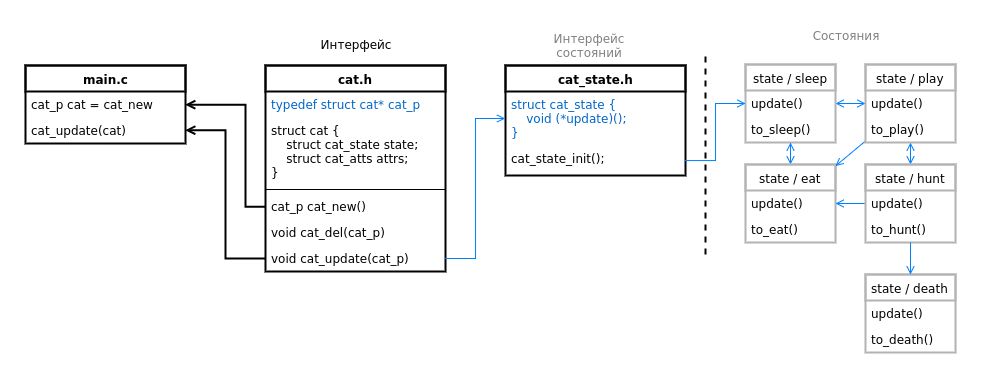
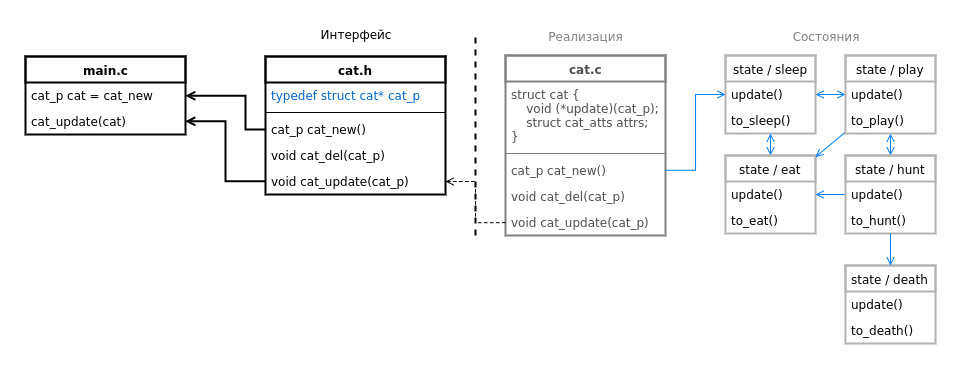
update

diff --git a/state/cat.h b/state/cat.h
@@ -2,7 +2,6 @@
 // CAT
 
 #pragma once
-#include "cat_state.h"
 
 typedef struct cat* cat_p;                //           /\___/\   // 
 typedef struct cat_attr* cat_attr_p;      //           )     (   // 
